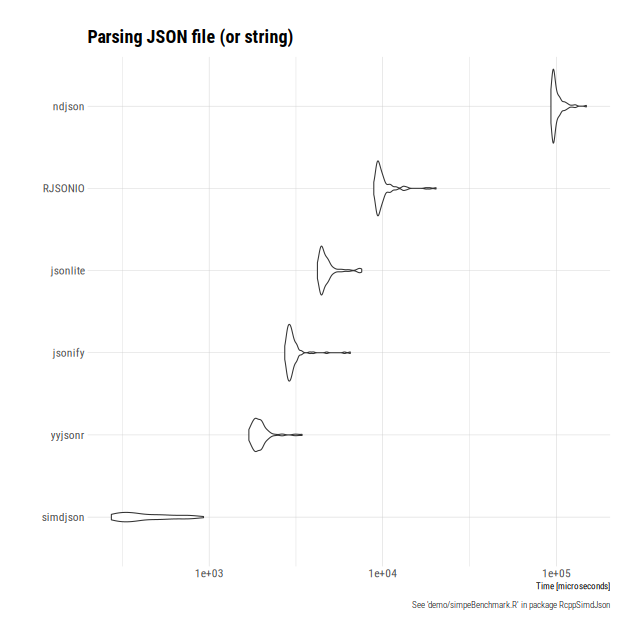
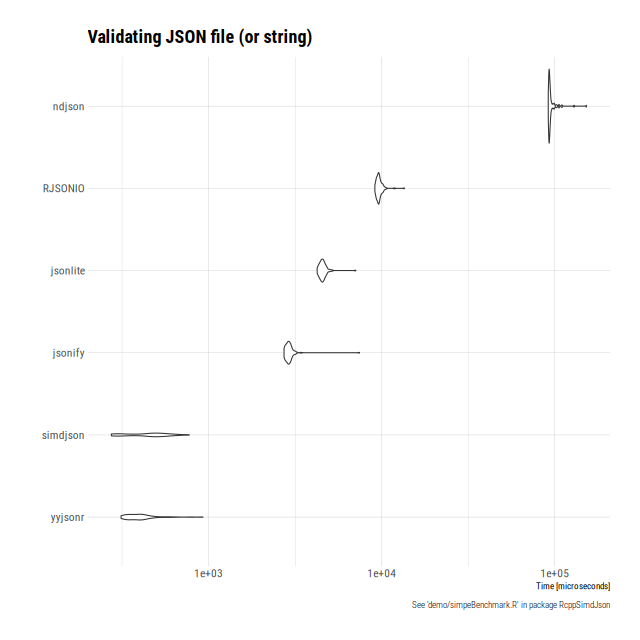
Correct first benchmark which is validation-only (closes #89)

diff --git a/README.md b/README.md
@@ -41,13 +41,13 @@ JSON parsers:
 ```r
 > print(res)
 Unit: microseconds
-     expr       min        lq       mean    median        uq       max neval   cld
- simdjson   279.651   311.028    347.192   332.916   370.018    721.52   100 a
-  yyjsonr  1716.109  1829.722   1966.880  1911.338  2003.459   6231.36   100 ab
-  jsonify  2791.985  2952.584   3110.254  3028.082  3237.061   4827.51   100  bc
- jsonlite  4364.009  4535.436   4727.582  4637.322  4799.579   7427.36   100   c
-  RJSONIO  9102.826  9419.470   9990.286  9622.371  9911.310  20346.18   100    d
-   ndjson 95197.993 96559.521 100487.450 97583.962 99954.224 165033.93   100     e
+     expr       min        lq      mean   median        uq        max neval   cld
+  yyjsonr   312.267   347.683   405.177   390.11   425.827    926.776   100 a
+ simdjson   274.367   323.998   447.691   467.79   526.237    773.070   100 a
+  jsonify  2727.874  2813.681  2952.804  2896.84  2972.852   7442.755   100  b
+ jsonlite  4237.538  4435.683  4587.428  4552.38  4668.345   7082.673   100   c
+  RJSONIO  9131.864  9425.515  9707.274  9599.48  9845.006  13516.616   100    d
+   ndjson 91668.822 92628.357 95386.212 93192.37 94507.484 152179.095   100     e
 >
 ```
 
